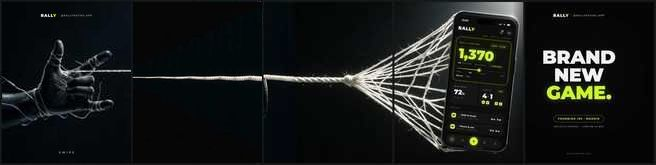
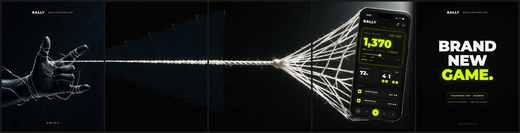
Clean up slide 2 and centre slide 5
Slide 2's cord strip was sampled from a fixed window that clipped the
fingertips, tiling ghost shapes across the slide; pick the window by
scoring bright area outside the cord band instead (0.05% junk, vs up to
57% for rejected candidates).

Slide 5's CTA was pasted 90px left of the slide boundary to hide a glow
seam, which pushed the whole layout off-centre. Paste it on the boundary
and fade slide 4's tail to black instead.

diff --git a/social/spiderman-teaser/build_slides.py b/social/spiderman-teaser/build_slides.py
@@ -144,9 +144,42 @@ report['screen_refine_dxdy'] = (dx, dy)
 pan.paste(scr_crop, (2160 + dx, 0 + dy), scr_crop)
 
 # --------------------------------------------------------- S2: cord tiling
-strip_x0, strip_x1 = 720, 1056
-band = 240
-strip = s1.crop((strip_x0, CORD_Y - band, strip_x1, CORD_Y + band))
+# The strip that gets tiled across slide 2 must contain the cord and NOTHING
+# else. Sampling a fixed window is fragile: depending on the hand generation,
+# a fingertip can fall inside it and then tiles across the whole slide as
+# ghost blobs. So score candidate windows by how much bright pixel area sits
+# OUTSIDE the cord band, and take the cleanest.
+SW, BAND = 182, 30
+
+
+def junk_score(img, x0, x1, cy, half=140, thresh=42):
+    """(fraction of bright pixels outside the cord band, peak cord brightness)."""
+    c = img.crop((x0, cy - half, x1, cy + half)).convert('L')
+    px = c.load()
+    w, h = c.size
+    mid = h // 2
+    junk = cord = 0
+    for y in range(h):
+        for x in range(w):
+            v = px[x, y]
+            if abs(y - mid) <= BAND:
+                cord = max(cord, v)
+            elif v > thresh:
+                junk += 1
+    return junk / (w * h), cord
+
+
+cands = []
+for x0 in range(560, W - SW + 1, 14):        # candidates from slide 1
+    cands.append(junk_score(s1, x0, x0 + SW, CORD_Y) + ('s1', x0))
+for x0 in range(2260, 3000, 20):             # and from the straight run in ge
+    cands.append(junk_score(pan, x0, x0 + SW, CORD_Y) + ('pan', x0))
+usable = sorted((c for c in cands if c[1] > 150), key=lambda c: c[0])
+best = usable[0]
+report['strip'] = {'src': best[2], 'x0': best[3], 'junk': round(best[0], 5)}
+strip = (s1 if best[2] == 's1' else pan).crop(
+    (best[3], CORD_Y - 140, best[3] + SW, CORD_Y + 140))
+
 th_left = max(6, report['s1_cord_exit'][1])
 th_right = max(th_left, report['s3_cord_entry'][1] if report['s3_cord_entry'][0] else th_left)
 grow = min(6.0, th_right / th_left)
@@ -219,9 +252,22 @@ if os.path.exists(f'{ROOT}/overlay_s1.png'):
     pan.paste(ov1, (0, 0), ov1)
 if os.path.exists(f'{ROOT}/overlay_s5.png'):
     ov5 = add_grain(Image.open(f'{ROOT}/overlay_s5.png').convert('RGB'), sigma * 0.7)
-    feather_paste(pan, ov5, (4 * W - 90, 0), feather=200, edges=('left',))
-    tail = add_grain(Image.new('RGB', (90, H), BG), sigma * 0.7)
-    pan.paste(tail, (PAN_W - 90, 0))
+    # The CTA must be pasted at the EXACT slide boundary, otherwise its whole
+    # layout sits off-centre inside slide 5. Any glow spilling off the right
+    # edge of the net/phone image is handled by fading slide 4's tail to black
+    # instead of by shifting the overlay.
+    tail_w = 150
+    tail = pan.crop((4 * W - tail_w, 0, 4 * W, H))
+    ramp = Image.new('L', (tail_w, H))
+    rp = ramp.load()
+    for xx in range(tail_w):
+        a = int(255 * (xx / (tail_w - 1)) ** 1.6)
+        for yy in range(H):
+            rp[xx, yy] = a
+    tail.paste(add_grain(Image.new('RGB', (tail_w, H), BG), sigma), (0, 0), ramp)
+    pan.paste(tail, (4 * W - tail_w, 0))
+
+    feather_paste(pan, ov5, (4 * W, 0), feather=120, edges=('left',))
 
 # ------------------------------------------------------------ seam metrics
 for name, sx in [('seam12', W), ('seam23', 2 * W), ('seam34', 3 * W), ('seam45', 4 * W)]:

diff --git a/social/spiderman-teaser/README.md b/social/spiderman-teaser/README.md
@@ -13,16 +13,16 @@ panorama, so the cord lines up edge-to-edge on every swipe.
 | # | Content | Final JPEG (1080×1350) |
 |---|---------|------------------------|
 | 1 | Suit-glove hand shooting the cord from its palm, lockup, SWIPE | https://d2ol7oe51mr4n9.cloudfront.net/user_3FwcSFk4XJLeeaMb70sVr46BWA5/c4558940-033d-459f-92a2-fbaec1e9b83a.jpg |
-| 2 | Taut cord across black | https://d2ol7oe51mr4n9.cloudfront.net/user_3FwcSFk4XJLeeaMb70sVr46BWA5/23a9bfe7-cd67-4658-9c08-760e6b25b41c.jpg |
+| 2 | Taut cord across black | https://d2ol7oe51mr4n9.cloudfront.net/user_3FwcSFk4XJLeeaMb70sVr46BWA5/db975ab6-31b8-4eb2-adb7-1f628fa27b6e.jpg |
 | 3 | Cord frays into net | https://d2ol7oe51mr4n9.cloudfront.net/user_3FwcSFk4XJLeeaMb70sVr46BWA5/f641c4f1-5ba5-44f9-90ec-7c6b3026c518.jpg |
 | 4 | Net catches the phone (RALLY home) | https://d2ol7oe51mr4n9.cloudfront.net/user_3FwcSFk4XJLeeaMb70sVr46BWA5/96d4007b-4148-4cee-98d2-5f69e363d1f3.jpg |
-| 5 | BRAND NEW GAME. + Founding 100 CTA | https://d2ol7oe51mr4n9.cloudfront.net/user_3FwcSFk4XJLeeaMb70sVr46BWA5/f710b332-18c7-45f1-a36b-395c2bad02be.jpg |
+| 5 | BRAND NEW GAME. + Founding 100 CTA | https://d2ol7oe51mr4n9.cloudfront.net/user_3FwcSFk4XJLeeaMb70sVr46BWA5/ee7fb76c-7189-4c65-a6de-d40388515334.jpg |
 
 Full panorama (5400×1350):
-https://d2ol7oe51mr4n9.cloudfront.net/user_3FwcSFk4XJLeeaMb70sVr46BWA5/bf0a08c7-715f-429c-8f50-31cd59d1ce50.jpg
+https://d2ol7oe51mr4n9.cloudfront.net/user_3FwcSFk4XJLeeaMb70sVr46BWA5/eb851e4f-45fa-4eb7-b583-2b0a979eaa03.jpg
 
 Contact sheet:
-https://d2ol7oe51mr4n9.cloudfront.net/user_3FwcSFk4XJLeeaMb70sVr46BWA5/def63f64-e72f-45a5-a09b-71e05fd6b7c1.jpg
+https://d2ol7oe51mr4n9.cloudfront.net/user_3FwcSFk4XJLeeaMb70sVr46BWA5/530d702e-3814-476e-b682-cd5c424358dd.jpg
 
 ![carousel preview](./carousel_preview.jpg)
 
@@ -59,6 +59,11 @@ No hashtags, no emojis. Post order: slides 1→5, 4:5 portrait.
 
 Seam QA (brightest-row y / thickness, left vs right of each cut):
 seam 1|2: 617/12 vs 616/13 · seam 2|3: 616/45 vs 617/46.
+
+Slide QA: slide 2 carries 0.05% bright pixels outside the cord band (the
+strip picker rejected candidate windows scoring up to 57% — those clipped
+the fingertips and used to tile ghost shapes across the slide). Slide 5's
+type sits 242px from the left edge and 236px from the right.
 
 Slide 1 uses the suit-glove hand generation (`aa438821…`) refined by an
 inpaint pass (`e0843e59…`) that removes the cord left of the hand and makes
